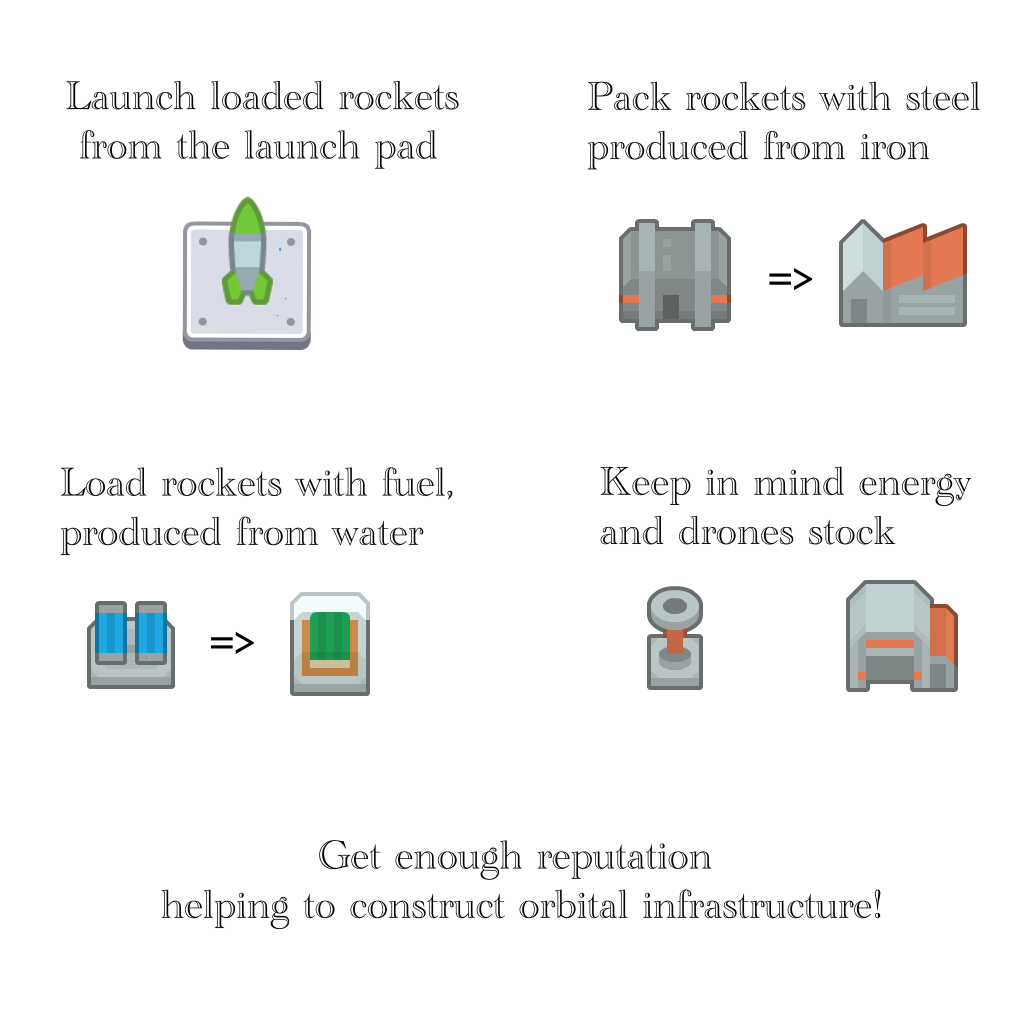
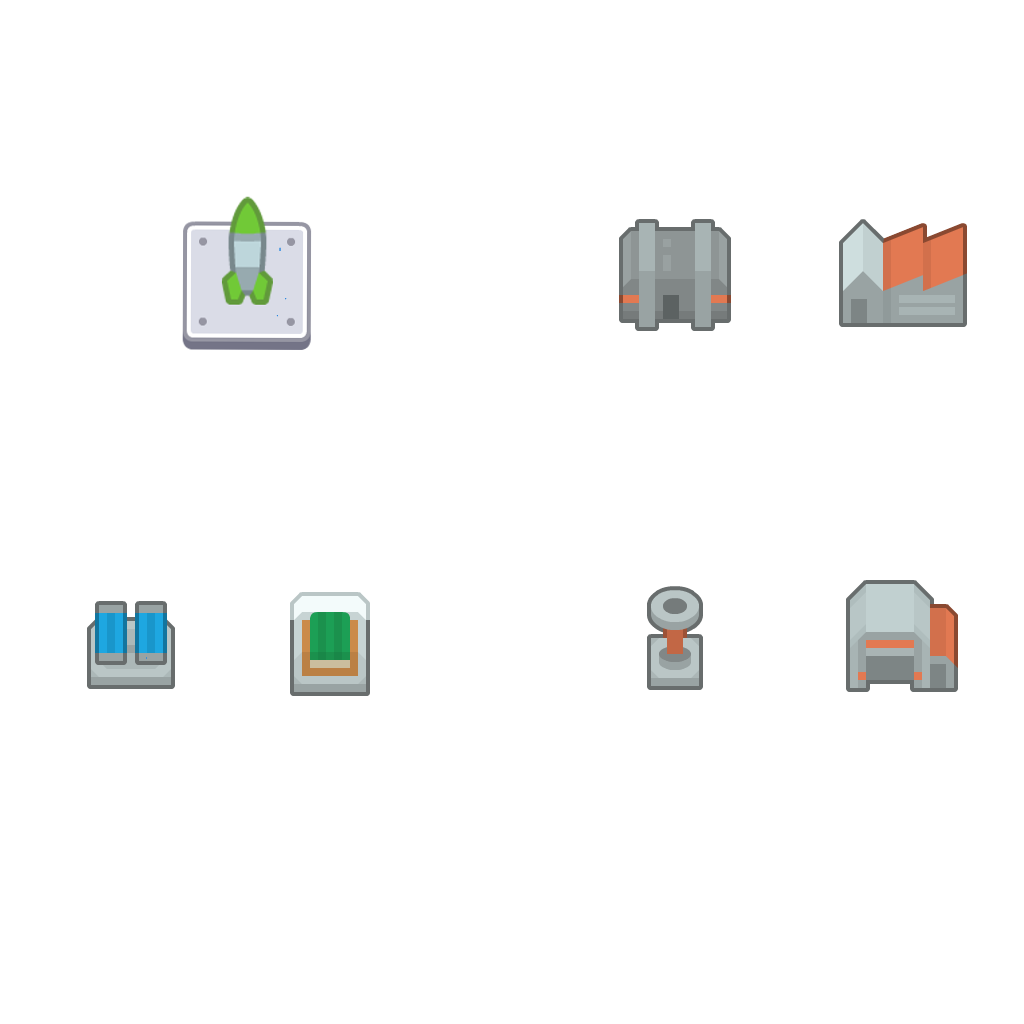
Add tutorial image

diff --git a/frontend/src/js/scenes/UIScene.js b/frontend/src/js/scenes/UIScene.js
@@ -80,6 +80,12 @@ export default class UIScene extends Phaser.Scene {
         
         // Initial UI update
         this.refreshUI();
+        
+        // Show tutorial panel if this is level 1
+        console.log('levelManager.getCurrentLevel()', levelManager.getCurrentLevel());
+        if (levelManager.getCurrentLevel().id === 'level1') {
+            this.showTutorialPanel();
+        }
     }
     
     createLayout() {
@@ -2184,5 +2190,72 @@ export default class UIScene extends Phaser.Scene {
     onCardChoiceClick(choiceIndex) {
         // Tell the game scene which card was chosen
         this.gameScene.selectCardChoice(choiceIndex);
+    }
+    
+    // Show tutorial panel at the beginning of level 1
+    showTutorialPanel() {
+        const width = this.cameras.main.width;
+        const height = this.cameras.main.height;
+        
+        // Create container for all tutorial elements
+        this.tutorialContainer = this.add.container(0, 0);
+        
+        // Add dark overlay for better readability
+        const darkOverlay = this.add.graphics();
+        darkOverlay.fillStyle(0x000000, 0.7);
+        darkOverlay.fillRect(0, 0, width, height);
+        this.tutorialContainer.add(darkOverlay);
+        
+        // Calculate panel dimensions (adjust as needed for the image)
+        const panelWidth = 800 ;
+        const panelHeight = 600;
+        const panelX = (width - panelWidth) / 2;
+        const panelY = (height - panelHeight) / 2;
+        
+        // Create panel background for better readability
+        const panelBg = this.add.graphics();
+        panelBg.fillStyle(0x222222, 0.9);
+        panelBg.fillRoundedRect(panelX, panelY, panelWidth, panelHeight, 10);
+        this.tutorialContainer.add(panelBg);
+        
+        // Add tutorial image
+        const tutorialImage = this.add.image(
+            width / 2,
+            height / 2 - 20, // Shift up slightly to make room for button
+            'tutorialPanel'
+        );
+        
+        // Scale the image to fit within the panel
+        const scale = Math.min(
+            (panelWidth - 40) / tutorialImage.width,
+            (panelHeight - 80) / tutorialImage.height
+        );
+        tutorialImage.setScale(scale);
+        
+        this.tutorialContainer.add(tutorialImage);
+        
+        // Create "GOT IT" button
+        const buttonWidth = 150;
+        const buttonHeight = 40;
+        const buttonX = width / 2 - buttonWidth / 2;
+        const buttonY = panelY + panelHeight - buttonHeight - 20; // 20px from bottom of panel
+        
+        const gotItButton = this.createActionButton(
+            'GOT IT',
+            () => {
+                // Remove tutorial panel
+                this.tutorialContainer.destroy();
+            },
+            0x4488cc, // Blue color
+            buttonWidth,
+            buttonHeight,
+            'blueGlossSquareButton'
+        );
+        
+        gotItButton.setPosition(buttonX, buttonY);
+        this.tutorialContainer.add(gotItButton);
+        
+        // Make sure tutorial panel is on top
+        this.tutorialContainer.setDepth(1000);
     }
 } 
